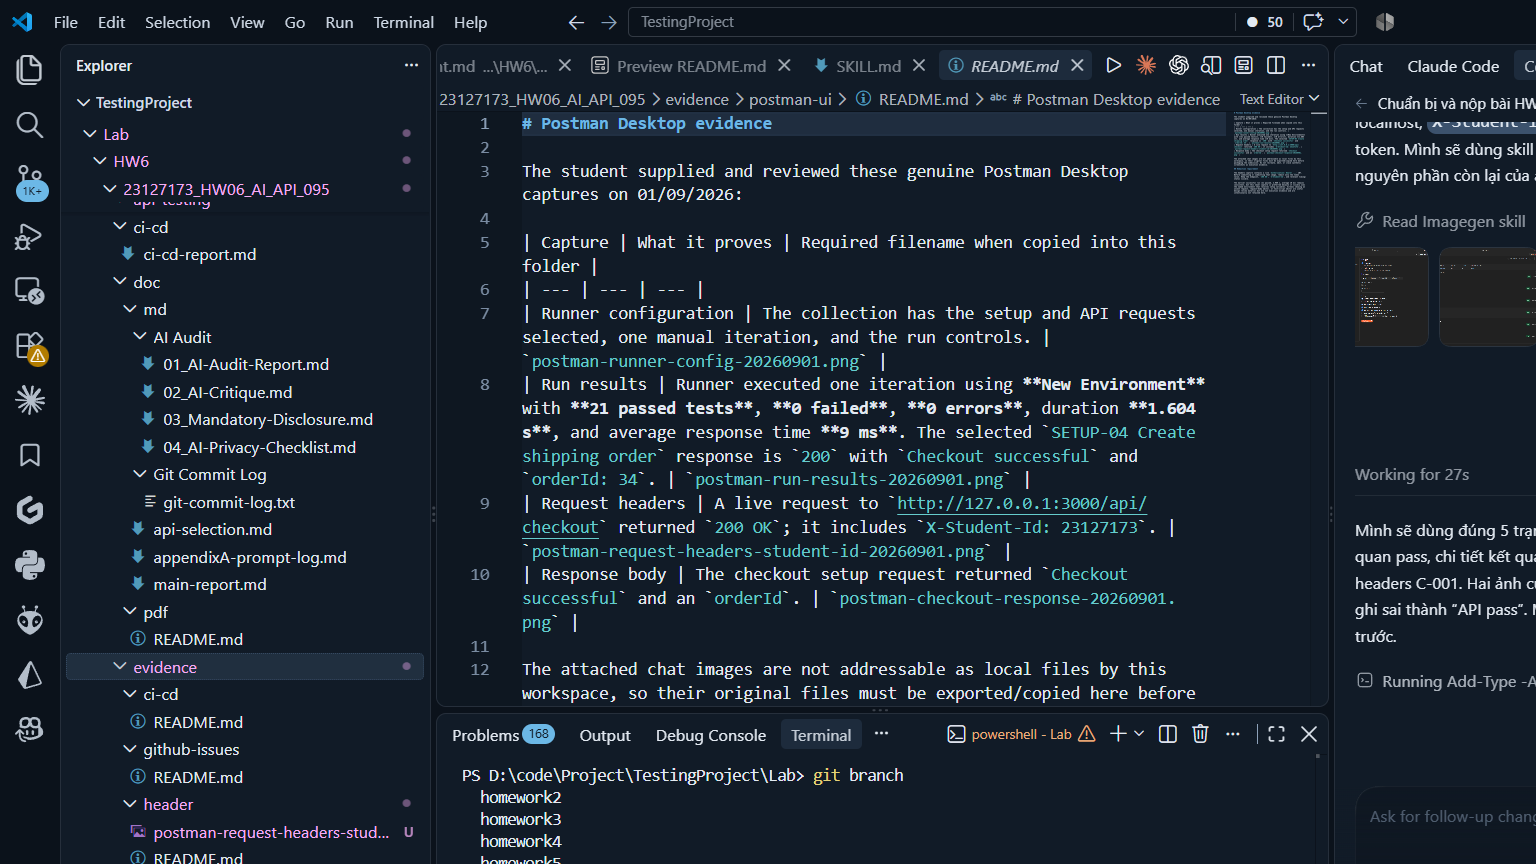
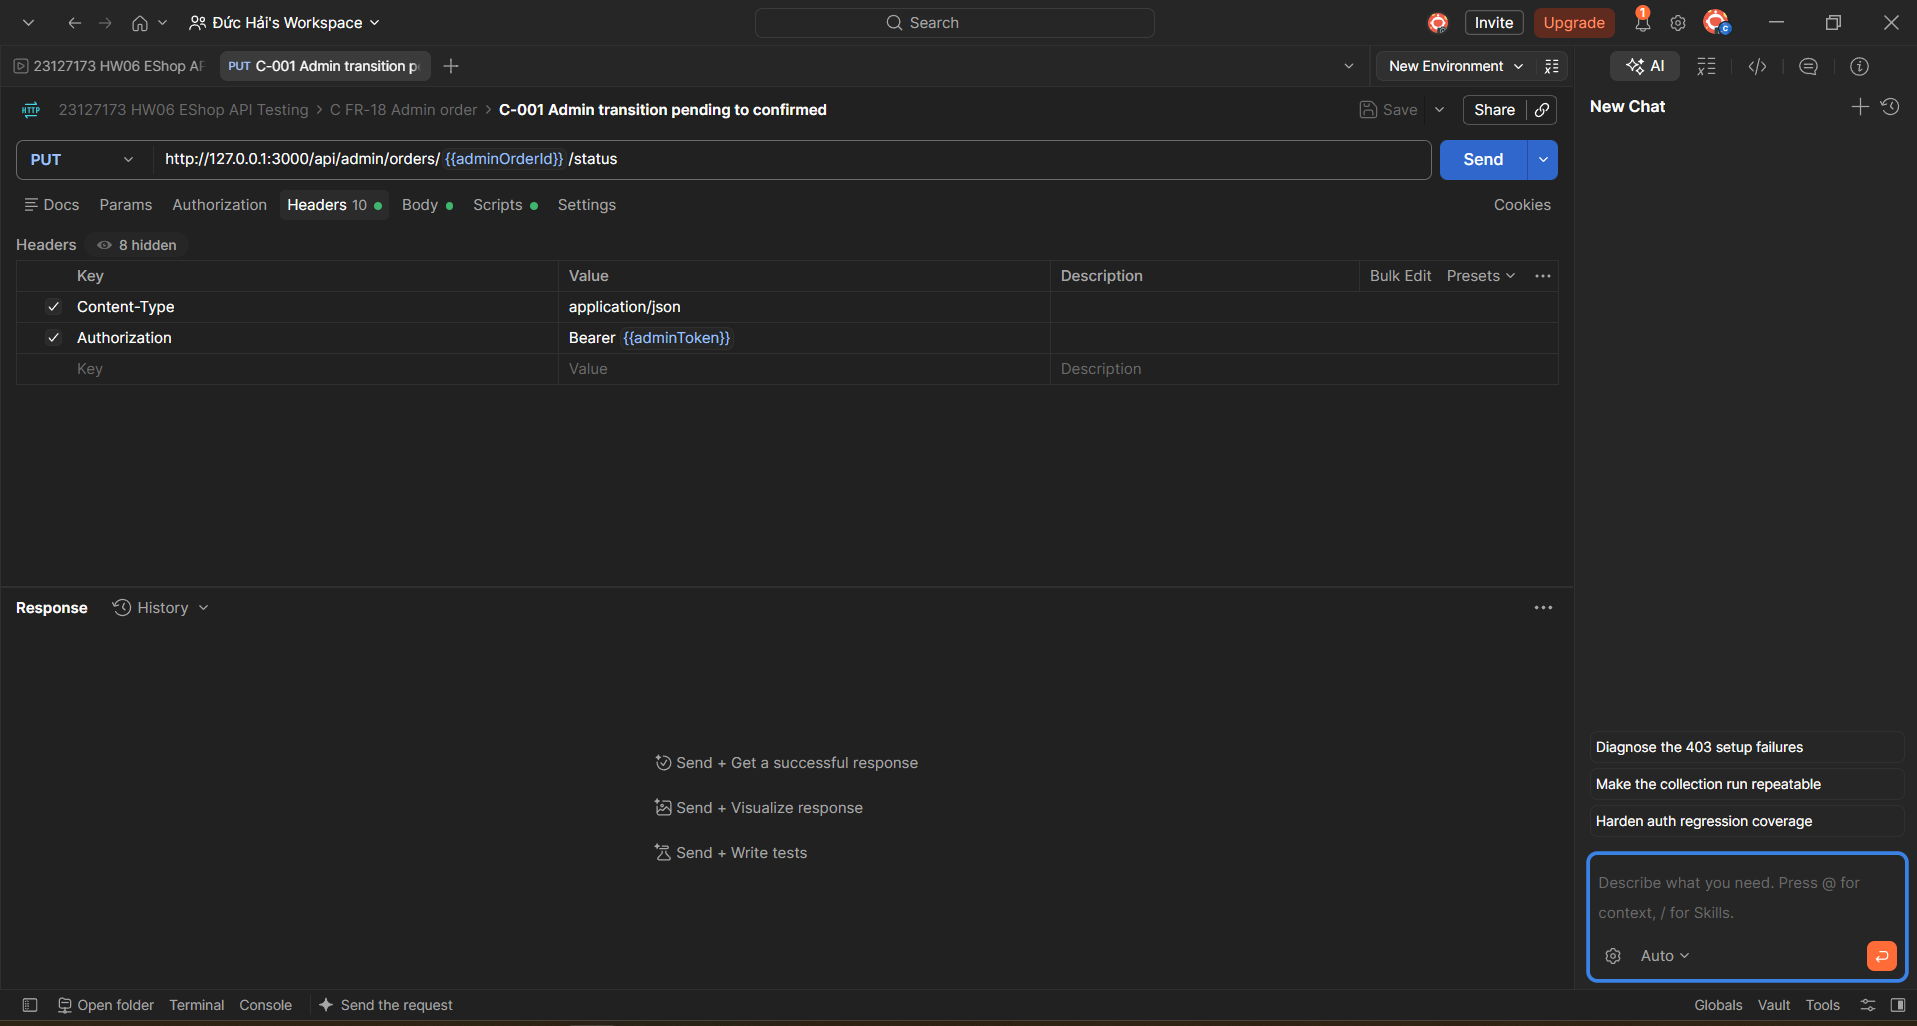
Add complete student Postman evidence set

Changed region(s): [[0.0, 0.0, 1.0, 1.0], [0.4688, 0.25, 0.7812, 0.3125], [0.625, 0.8438, 0.7188, 0.875]]

diff --git a/HW6/23127173_HW06_AI_API_095/doc/md/AI Audit/01_AI-Audit-Report.md b/HW6/23127173_HW06_AI_API_095/doc/md/AI Audit/01_AI-Audit-Report.md
@@ -24,6 +24,7 @@
 | AI-010 | 01/09/2026 | Codex (GPT-5) | Sinh viên cung cấp ảnh Postman Desktop để review, bổ sung evidence, xóa ảnh không phải evidence, cập nhật audit và commit. | Review ảnh thật: Runner cấu hình; kết quả 1 iteration với 21 passed, 0 failed, 0 errors, 2.989 s, avg 10 ms; request `POST /api/checkout` trả 200 và hiện `X-Student-Id: 23127173`; response có `Checkout successful`/`orderId`. Xóa 8 ảnh local chỉ là import/tổng quan, tạo hướng dẫn evidence và yêu cầu redaction JWT. | **VALID - Postman execution verified from student-supplied evidence.** Không ghi ảnh chat thành file giả: cần chép file ảnh gốc vào `evidence/postman-ui/` trước khi đóng gói. Token Bearer phải được che; các ảnh request chưa Send không được tính là evidence thực thi. |
 | AI-011 | 01/09/2026 | Codex (GPT-5) | Sinh viên cung cấp capture Runner mới sau khi tạo environment để làm rõ lỗi chạy request riêng lẻ. | Capture thật cho thấy một Runner iteration dùng `New Environment`, 21 passed, 0 failed, 0 errors, 1.604 s, avg 9 ms; `SETUP-04 Create shipping order` trả 200 và `orderId: 34`. | **VALID - execution evidence and diagnosis confirmed.** Các biến token/order ID chỉ có trong run context/environment sau setup chain; `403` của request đơn lẻ với placeholder chưa resolve không phải kết quả pass và không dùng làm positive evidence. |
 | AI-012 | 01/09/2026 | Codex (GPT-5) | Sinh viên bắt buộc dùng bộ năm ảnh Postman: Runner config, run summary, run details, C-001 body, C-001 headers. | Lưu trực tiếp từ Postman Desktop đang active: `postman-run-results-20260901.png` (run thật, 21 passed) và `postman-c001-request-headers-20260901.png` (traceability). Cập nhật inventory năm ảnh; loại ảnh chụp nhầm VS Code và ảnh headers có secret không redacted. | **VALID - two local Postman captures; INCOMPLETE - three chat-rendered originals.** Không thay thế ba ảnh còn lại bằng ảnh sinh/gia công. Chỉ dùng những ảnh đó khi file gốc được đưa vào workspace. |
+| AI-013 | 01/09/2026 | Codex (GPT-5) | Sinh viên đã lưu trực tiếp năm ảnh gốc vào `evidence/postman-ui/` và yêu cầu tự kiểm điểm, cập nhật audit/critique/commit. | Phát hiện `1.png`–`5.png`, xác minh ảnh 1 là Runner; đổi tên theo nội dung, thay hai capture trùng bằng ảnh gốc, cập nhật evidence inventory và báo cáo. | **VALID - complete five-image Postman evidence set.** Agent trước đó đã không kiểm tra lại thư mục sau thông báo của sinh viên; lỗi quy trình này được ghi tại critique. |
 
 ## Quy tắc cập nhật
 

diff --git a/HW6/23127173_HW06_AI_API_095/doc/md/main-report.md b/HW6/23127173_HW06_AI_API_095/doc/md/main-report.md
@@ -32,7 +32,7 @@ Collection: `api-testing/postman/collections/23127173_HW06_EShop_API.postman_col
 
 Ảnh Newman chạy thật: `evidence/newman-ui/newman-baseline-terminal-20260901.png`.
 
-Postman Desktop đã được sinh viên chạy và cung cấp ảnh kết quả thật ngày 01/09/2026: một iteration chạy bằng `New Environment`, **21 passed**, **0 failed**, **0 errors**, thời lượng **1.604 s**, trung bình **9 ms**. Trong cùng ảnh, `SETUP-04 Create shipping order` trả `200`, `Checkout successful`, `orderId: 34`, xác nhận setup chain đã resolve biến. Ảnh headers cho thấy request `POST http://127.0.0.1:3000/api/checkout` trả `200 OK` và có `X-Student-Id: 23127173`. Danh mục ảnh cần chép vào gói nộp được ghi tại `evidence/postman-ui/README.md`. Token Bearer trong ảnh headers phải được che trước khi lưu/commit.
+Postman Desktop đã được sinh viên chạy và cung cấp năm ảnh kết quả thật ngày 01/09/2026. Run mới nhất chạy bằng `New Environment`, một iteration, **21 passed**, **0 failed**, **0 errors**, thời lượng **1.669 s**, trung bình **9 ms**. Bộ ảnh cho thấy cấu hình Runner, tổng quan kết quả, chi tiết case dương/âm, request body C-001 và headers C-001. Danh mục/tính chất từng ảnh được ghi tại `evidence/postman-ui/README.md`; ảnh cấu hình không được diễn giải như response thực thi.
 
 ## 6. CI/CD
 

diff --git a/HW6/23127173_HW06_AI_API_095/doc/md/AI Critique/01_evidence-handling-critique.md b/HW6/23127173_HW06_AI_API_095/doc/md/AI Critique/01_evidence-handling-critique.md
@@ -1,0 +1,19 @@
+# Self-critique: Postman evidence handling
+
+## Incident
+
+After the student stated that screenshots had been saved, the agent incorrectly repeated that chat-rendered images were unavailable instead of immediately scanning `evidence/postman-ui/` for newly added files.
+
+## Impact
+
+- The evidence handoff was delayed.
+- The student had to repeat the instruction despite already placing five original files in the workspace.
+- Two agent-captured images were temporarily treated as the available evidence set, which did not meet the student's explicit requirement to use the five supplied captures.
+
+## Correction
+
+On 01/09/2026 the agent located `1.png` through `5.png`, verified the Runner image, renamed all five files descriptively, removed/replaced duplicate captures, and updated the evidence inventory and AI Audit. The final set contains the student's original Postman screenshots only.
+
+## Preventive rule
+
+When a user says an artifact was saved, first perform a narrow, read-only directory listing of the named destination before explaining tool limitations, requesting re-upload, creating placeholders, or producing replacement artifacts.

diff --git a/HW6/23127173_HW06_AI_API_095/evidence/postman-ui/README.md b/HW6/23127173_HW06_AI_API_095/evidence/postman-ui/README.md
@@ -10,7 +10,7 @@ The student supplied and reviewed these five genuine Postman Desktop captures on
 | 4 | C-001 request body | Traceability for `PUT /api/admin/orders/{{adminOrderId}}/status` using `{ "status": "confirmed" }`. It is configuration evidence, not a sent-result capture. | `postman-c001-request-body-20260901.png` |
 | 5 | C-001 request headers | Traceability for the same request with `Authorization: Bearer {{adminToken}}`. It is configuration evidence, not a sent-result capture. | `postman-c001-request-headers-20260901.png` |
 
-The active-desktop capture facility saved files 2 and 5. Chat-rendered images 1, 3 and 4 are not addressable as local files by this workspace; their original files must be exported/copied here before packaging the submission. Do not recreate, edit, or claim synthetic screenshots as execution evidence.
+All five original files supplied by the student are now stored in this directory under the filenames above. They are direct Postman Desktop captures, not recreated images.
 
 ## Redaction requirement
 
